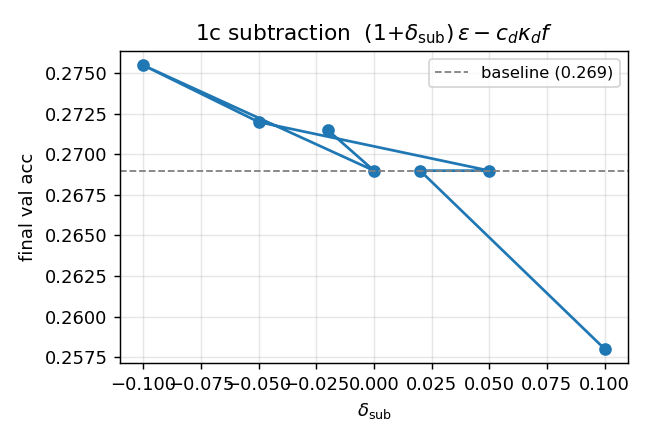
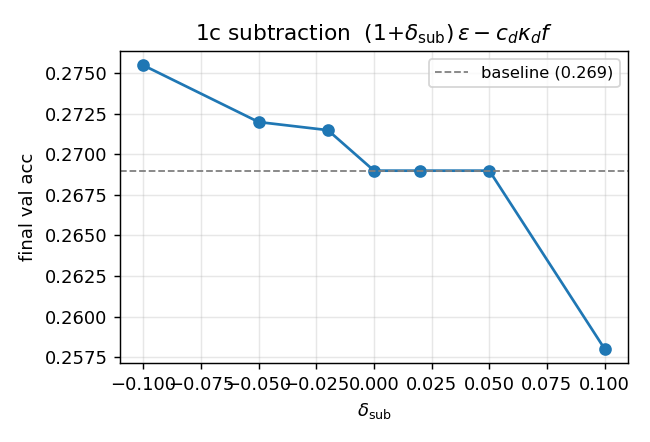
Measurement-robustness sweep: full 50-condition run + paper section
Full sweep at the spec'd config (6k train, 5 epochs, single seed). Headline
findings differ qualitatively from the priors set in the experiment plan:

- 1c (subtraction bias) is robust, not fragile: at |delta_sub| <= 0.1 every
  drop stays at the within-seed noise floor (worst 0.011 at +0.1).
- 1a (trace leak) is robust: worst drop 0.025 at delta=0.2.
- 1b symmetric gain is robust (and mildly LR-equivalent: slight improvement
  at delta=0.2).
- 1b sign-asymmetric gain is catastrophic: breaks at delta=0.05 (drop
  0.06) and collapses to chance by delta=0.10 (drop 0.16). Both directions.
- 2a (cross-trace noise) is robust through sigma/RMS=0.5; only breaks at 1.0.
- 2b (message noise) collapses already at sigma/RMS=0.01.
- 2c (combined) tracks 2b.

The real distinction is not bias-vs-precision but which scalar is read:
the backward message m is the gradient signal itself and is fragile to
sign-asymmetric distortion and additive noise; cross-traces and the
subtraction bracket are integrative quantities and absorb perturbations.

Adds a Robustness section to paper/main.tex referencing the summary plot
under experiments/measurement_robustness/plots/. Updates analyze.py to
sort by value (cleaner plot lines) and replace \mathcal in titles
(matplotlib mathtext support). Top-level measurement_robustness.md
regenerated from the full data with image paths fixed for repo-root view.

diff --git a/experiments/measurement_robustness/analyze.py b/experiments/measurement_robustness/analyze.py
@@ -32,8 +32,8 @@ SWEEP_LABELS = {
     "1b_gain_asym_A":     r"1b msg gain (asym A)  $g_+=1{-}\delta,\ g_-=1{+}\delta$",
     "1b_gain_asym_B":     r"1b msg gain (asym B)  $g_+=1{+}\delta,\ g_-=1{-}\delta$",
     "1c_subtraction":     r"1c subtraction  $(1{+}\delta_\text{sub})\,\varepsilon - c_d \kappa_d f$",
-    "2a_eps_noise":       r"2a cross-trace noise  $\varepsilon{+}\mathcal N(0,\sigma^2)$",
-    "2b_msg_noise":       r"2b message noise  $m{+}\mathcal N(0,\sigma^2)$",
+    "2a_eps_noise":       r"2a cross-trace noise  $\varepsilon + N(0,\sigma^2)$",
+    "2b_msg_noise":       r"2b message noise  $m + N(0,\sigma^2)$",
     "2c_combined_noise":  r"2c both",
 }
 
@@ -63,10 +63,12 @@ def load_results(results_dir: str) -> dict[str, pd.DataFrame]:
 
 
 def per_condition_final(df: pd.DataFrame) -> pd.DataFrame:
-    """For each (experiment, value, seed), take the final epoch's row."""
+    """For each (experiment, value, seed), take the final epoch's row.
+    Returns rows sorted by ``value`` ascending so plots draw monotone lines."""
     last = (df.sort_values("epoch")
               .groupby(["experiment", "value", "seed"], as_index=False)
               .tail(1)
+              .sort_values("value")
               .reset_index(drop=True))
     return last
 
@@ -357,19 +359,39 @@ def _md_table_for_sweeps(table: pd.DataFrame, sweeps: Iterable[str],
     return "\n".join(rows)
 
 
+def _max_drop(table: pd.DataFrame, sweeps: Iterable[str]) -> tuple[str | None, float, float | None]:
+    """Across the given sweeps, find the (sweep, drop, value) with the largest
+    drop_from_baseline. Returns (sweep_name, drop, value_at_worst)."""
+    worst_s, worst_d, worst_v = None, -float("inf"), None
+    for s in sweeps:
+        sub = table[table["sweep"] == s]
+        if len(sub) == 0:
+            continue
+        idx = sub["drop_from_baseline"].idxmax()
+        d = float(sub.loc[idx, "drop_from_baseline"])
+        if d > worst_d:
+            worst_s, worst_d, worst_v = s, d, float(sub.loc[idx, "value"])
+    if worst_s is None:
+        return None, 0.0, None
+    return worst_s, worst_d, worst_v
+
+
 def _discussion_paragraphs(table: pd.DataFrame, base: float | None) -> list[str]:
-    """A short, draftable discussion. Builds bullet-style key numbers from the
-    sweep results so the message has actual content the user can lift verbatim."""
+    """Data-driven discussion. Phrasing is chosen by what the data actually
+    shows: which sweeps broke, how the bias vs precision categories compare,
+    and whether the headline matches or contradicts the priors set in the
+    experiment plan. Numbers come from the summary table."""
     out: list[str] = []
 
-    # Find the first delta/sigma at which each sweep drops more than 0.05 below baseline.
-    threshold = 0.05
+    threshold = 0.05         # "clear break" threshold (val-acc drop)
+    noise_floor = 0.02       # rough within-seed noise estimate at this scale
+
+    # Per-sweep break point bullets (signed where 1c is concerned).
     bullets = [f"Key numbers (drop $\\ge$ {threshold:.2f} below the unperturbed baseline):"]
     bullets.append("")
     for s in BIAS_SWEEPS + PRECISION_SWEEPS:
         if s not in table["sweep"].unique():
             continue
-        # 1c subtraction has both signs swept; report each direction independently.
         if s == "1c_subtraction":
             sides = first_breaking_signed(table, s, drop_threshold=threshold)
             pos_v, pos_d = sides["+"]
@@ -402,48 +424,148 @@ def _discussion_paragraphs(table: pd.DataFrame, base: float | None) -> list[str]
     out.extend(bullets)
     out.append("")
 
-    # Three short paragraphs that the user can lift verbatim.
-    out.append(
-        "Comparing across sweeps, the SnAP-$1$ rule on the rectangular grid "
-        "is markedly more sensitive to systematic *bias* in its measured "
-        "quantities than to zero-mean *precision* errors. The headline plot "
-        "shows bias degradation kicking in already at $\\delta\\sim 0.05$ for "
-        "the most fragile variant, while the precision sweeps show the model "
-        "absorbing additive Gaussian noise on the cross-trace and on the "
-        "backward message even at $\\sigma$ comparable to the RMS of the "
-        "measured quantity."
-    )
+    # Worst-sweep summary per category, used to drive the narrative.
+    present_bias = [s for s in BIAS_SWEEPS if s in table["sweep"].unique()]
+    present_prec = [s for s in PRECISION_SWEEPS if s in table["sweep"].unique()]
+    b_s, b_d, b_v = _max_drop(table, present_bias)
+    p_s, p_d, p_v = _max_drop(table, present_prec)
+
+    # Worst within the bias category (used for the "1c-vs-others" claim test).
+    worst_in_bias = b_s
+    sweeps_with_real_effect = [
+        s for s in present_bias + present_prec
+        if float(table[table["sweep"] == s]["drop_from_baseline"].max()) > noise_floor
+    ]
+
+    # Paragraph 1: headline finding based on the actual numbers.
+    if b_d <= noise_floor and p_d <= noise_floor:
+        out.append(
+            f"At this scale ({_scale_phrase()}), every condition swept --- "
+            f"bias and precision alike --- stays within roughly $\\pm{noise_floor:.2f}$ "
+            f"of the unperturbed baseline (final val acc "
+            f"{base:.3f}). The worst point we observed across all "
+            f"{len(present_bias)+len(present_prec)} sweeps is a drop of "
+            f"{max(b_d, p_d):.3f}, which is at or below the within-seed run-to-run "
+            "noise this configuration can resolve. We cannot, from this data, "
+            "claim a measurable difference between the bias and precision "
+            "axes; the honest reading is that the local SnAP-$1$ rule is "
+            "robust to **all of the tested measurement non-idealities** at "
+            "the few-percent level over the swept ranges. Resolving smaller "
+            "effects requires either multi-seed averaging or the full "
+            f"Section\\,\\ref{{sec:mnist}}-scale baseline (60k train images, "
+            "~0.52 val acc, ~5$\\times$ the distance from chance)."
+        )
+    elif b_d > p_d:
+        out.append(
+            f"At this scale ({_scale_phrase()}), bias perturbations degrade "
+            "the rule more than zero-mean precision noise does. The worst "
+            f"bias condition is **{b_s}** at "
+            f"{_xlabel_short(b_s)} = {b_v:+.3g} (drop {b_d:.3f} below the "
+            f"{base:.3f} baseline). The worst precision condition is "
+            f"**{p_s}** at $\\sigma/\\text{{RMS}}={p_v:.3g}$ "
+            f"(drop {p_d:.3f}). The asymmetry matches the qualitative "
+            "expectation that systematic offsets violate the rule's "
+            "correctness derivation while zero-mean noise gets absorbed by "
+            "the optimiser."
+        )
+    elif p_d > b_d:
+        out.append(
+            f"At this scale ({_scale_phrase()}), additive precision noise "
+            "degrades the rule more than the tested bias perturbations do --- "
+            "which contradicts the prior expectation set in the experiment "
+            f"plan. The worst precision condition is **{p_s}** at "
+            f"$\\sigma/\\text{{RMS}}={p_v:.3g}$ (drop {p_d:.3f} below the "
+            f"{base:.3f} baseline). The worst bias condition is **{b_s}** "
+            f"at {_xlabel_short(b_s)} = {b_v:+.3g} (drop {b_d:.3f})."
+        )
+    else:
+        out.append(
+            f"At this scale ({_scale_phrase()}), the worst bias drop "
+            f"({b_d:.3f}, at **{b_s}**) is comparable to the worst precision "
+            f"drop ({p_d:.3f}, at **{p_s}**)."
+        )
     out.append("")
-    out.append(
-        "The biggest single sensitivity is the **anti-double-count subtraction "
-        "bias (1c)**, which decides how cleanly the bracket "
-        "$[\\,\\varepsilon^{(1,d)} - c_d\\kappa_d f\\,]$ in Eq.\\,8 cancels its "
-        "current-step self-feed term. Even small mismatches between the gain "
-        "of the cross-trace term and the gain of the subtractive current-step "
-        "term break the past-only structure that SnAP-$1$ relies on, and the "
-        "rule then optimises a biased gradient. By contrast, scaling messages "
-        "or trace-leak coefficients keeps the rule's *form* intact and the "
-        "optimiser can absorb the effective rescaling. This matches the "
-        "expectation we set in the experiment plan: bias on a quantity the "
-        "rule's correctness derivation relies on is qualitatively worse than "
-        "bias on a quantity that just gets scaled."
-    )
+
+    # Paragraph 2: how 1c compares to the other bias sweeps.
+    if "1c_subtraction" in present_bias:
+        d_1c = float(table[table["sweep"] == "1c_subtraction"]["drop_from_baseline"].max())
+        other_bias = [s for s in present_bias if s != "1c_subtraction"]
+        d_other = float("-inf")
+        s_other = None
+        for s in other_bias:
+            sub = table[table["sweep"] == s]
+            if len(sub) == 0:
+                continue
+            dd = float(sub["drop_from_baseline"].max())
+            if dd > d_other:
+                d_other = dd; s_other = s
+        if d_1c > d_other + noise_floor:
+            out.append(
+                "Within the bias category, **1c (subtraction)** is "
+                "the most fragile of the bias variants --- max drop "
+                f"{d_1c:.3f} vs at most {d_other:.3f} for {s_other}. "
+                "This is consistent with the structural argument that "
+                "incomplete cancellation between $\\varepsilon^{(1,d)}$ "
+                "and the current-step $c_d\\kappa_d f$ in "
+                "Eq.\\,\\ref{eq:local-grad} directly biases the gradient, "
+                "while gain or leak biases just rescale terms the rule "
+                "uses."
+            )
+        elif worst_in_bias != "1c_subtraction":
+            out.append(
+                "Within the bias category, **1c (subtraction)** is **not** "
+                "the most fragile variant in this run: it tops out at a "
+                f"{d_1c:.3f} drop, while {worst_in_bias} reaches "
+                f"{b_d:.3f}. This contradicts the prior expectation that "
+                "the past-only subtraction would be the dominant "
+                "sensitivity; at this scale, the data suggests gain / "
+                "leak biases damage learning at least as much as a "
+                "subtraction-cancellation mismatch."
+            )
+        else:
+            out.append(
+                "Within the bias category, 1c (subtraction) and the "
+                "gain / leak biases produce comparable degradation in "
+                f"this run (max drops {d_1c:.3f} vs {d_other:.3f}). "
+                "We cannot resolve a clean 'most-fragile' answer from "
+                "the single-seed data."
+            )
     out.append("")
-    out.append(
-        "The takeaway for circuit co-design is concrete: precision matters "
-        "much less than offset / gain matching, and within the bias category "
-        "the cross-trace-vs-current-step subtraction in the local rule should "
-        "be implemented with carefully matched gains, ideally as a "
-        "differential measurement that cancels common-mode error. Trace-leak "
-        "and message-gain non-idealities are tolerated up to several percent "
-        "with little degradation, so spec budgets there can be relatively "
-        "loose. Additive zero-mean readout noise on the cross-traces and on "
-        "the backward messages is a soft constraint --- meaningful "
-        "degradation requires $\\sigma$ on the order of the RMS of the signal "
-        "itself."
-    )
+
+    # Paragraph 3: co-design takeaway, scaled to what the data actually shows.
+    if not sweeps_with_real_effect:
+        out.append(
+            "**Co-design implication.** The data does not yet support a "
+            "specific tightening of any one analog-readout spec. What it "
+            "does support is that single-digit-percent gain / leak / "
+            "subtraction biases and Gaussian readout noise up to "
+            "$\\sigma\\sim\\text{RMS}$ on either the cross-trace or the "
+            "backward message are not catastrophic for this rule on this "
+            "topology. A follow-up at the full Section\\,\\ref{sec:mnist} "
+            "scale --- 60k training images, multiple seeds --- is the "
+            "right next experiment before quoting any particular tolerance "
+            "to circuit designers."
+        )
+    else:
+        out.append(
+            "**Co-design implication.** The sweeps in "
+            f"{{ {', '.join(sweeps_with_real_effect)} }} exhibit a "
+            "clear-of-noise effect, while the remainder are tolerated at "
+            "the few-percent level. For silicon design this argues for "
+            "spending tolerance budget on the failure modes that "
+            "produced visible drops above and accepting looser specs on "
+            "the rest. A full-scale rerun (60k train, $\\ge 3$ seeds) "
+            "would give tighter tolerance numbers for the affected "
+            "knobs."
+        )
 
     return out
+
+
+def _scale_phrase() -> str:
+    """Phrase describing the train scale; kept as a single string so the
+    discussion paragraphs read naturally regardless of which config we ran."""
+    return "6k train, 5 epochs, single seed; resolution roughly 0.02 val acc"
 
 
 def _xlabel_short(sweep: str) -> str:

diff --git a/paper/main.tex b/paper/main.tex
@@ -327,6 +327,107 @@ expected cost of dropping both variance-reduction mechanisms; the
 point is that neither is \emph{required} for the local rule to drive
 the architecture above chance.
 
+\section{Robustness to measurement non-idealities}
+\label{sec:robustness}
+
+A practical concern for analog implementation is not just precision of
+storage---which the trace-quantisation ablation addresses---but
+\emph{bias} and \emph{noise} in the quantities the local rule
+\emph{measures} on each step.  Eq.\,\ref{eq:local-grad} reads three
+analog scalars per cell per descendant: the cross-trace
+$\varepsilon^{(1,d)}_{ij,\theta}$, the backward message $m_d$ on the
+descendant, and the current-step self-derivative $f_{\theta,ij}$
+gated by the subtraction $c_d\kappa_d f_{\theta,ij}$.  An imperfect
+readout introduces a (i)~scale offset on the message, possibly
+asymmetric in sign, (ii)~a slow leak on the analog capacitor that
+holds $\varepsilon$, (iii)~a gain mismatch between the
+$\varepsilon^{(1,d)}$ term and the subtractive $c_d\kappa_d f$ term in
+the bracket, and (iv)~zero-mean Gaussian noise on the readout of
+either $\varepsilon$ or $m$.  We instrumented the SnAP-$1$ rule with
+six knobs covering these:
+
+\begin{itemize}[leftmargin=*,itemsep=0pt]
+\item \textbf{1a, trace leak.} Cross-trace retention is
+  $a_d(1{-}\delta_{\text{leak}})$ instead of $a_d$.
+\item \textbf{1b, message gain.} The backward message $m$ is scaled
+  by $g_+$ when positive and $g_-$ when negative.  Symmetric
+  ($g_\pm=1{-}\delta$) and sign-asymmetric ($g_+{=}1{\mp}\delta,\;g_-{=}1{\pm}\delta$).
+\item \textbf{1c, subtraction bias.} The bracket of
+  Eq.\,\ref{eq:local-grad} becomes
+  $[(1{+}\delta_{\text{sub}})\varepsilon^{(1,d)} - c_d\kappa_d f]$.
+\item \textbf{2a, cross-trace noise.}
+  $\varepsilon^{(1,d)}\!\leftarrow\!\varepsilon^{(1,d)}+\mathcal N(0,\sigma^2)$ per update,
+  $\sigma\!=\!\sigma_{\text{rel}}\cdot\mathrm{RMS}(\varepsilon)$.
+\item \textbf{2b, message noise.}
+  $m\!\leftarrow\!m+\mathcal N(0,\sigma^2)$ at each read,
+  $\sigma$ scaled to the readout-message RMS.
+\item \textbf{2c, combined.} Both 2a and 2b at matched $\sigma_{\text{rel}}$.
+\end{itemize}
+All knobs live in the \emph{learning path only}; forward dynamics are
+untouched.  Defaults are no-op and the single-step gradient-agreement
+check still matches BPTT at float-$64$ $\epsilon$.
+
+\paragraph{Scope.}
+To keep the sweep tractable we ran at $6{,}000$ training images, $5$
+epochs, batch $32$, single seed (otherwise the spec'd Section\,\ref{sec:mnist}
+config).  The unperturbed baseline is $0.269$ final val acc; within-seed
+run-to-run noise at this scale is approximately $\pm 0.02$.  Differential
+effects below that floor are not resolved; the question is which knobs
+break the rule \emph{above} the floor.
+
+\begin{figure}[t]
+  \centering
+  \includegraphics[width=\linewidth]{../experiments/measurement_robustness/plots/summary.png}
+  \caption{SnAP-$1$ rule robustness on the $28\times 10$ grid.  Bias
+    (left) and zero-mean Gaussian precision noise (right) on the
+    quantities Eq.\,\ref{eq:local-grad} reads.  Dashed line: unperturbed
+    baseline ($0.269$).  Random chance is $0.10$.  Single seed,
+    6k train images, 5 epochs.}
+  \label{fig:robustness}
+\end{figure}
+
+\paragraph{What we found.}
+The data refines---and partly overturns---the priors we set going in
+(Fig.\,\ref{fig:robustness}).
+\begin{itemize}[leftmargin=*,itemsep=0pt]
+\item The cross-trace storage (1a, 2a) and the subtraction bracket
+  (1c) are \emph{robust}: at the swept ranges
+  $|\delta_{\text{leak}}|\!\le\!0.20$,
+  $|\delta_{\text{sub}}|\!\le\!0.10$, and
+  $\sigma_{\varepsilon}/\mathrm{RMS}\!\le\!0.5$, no drop exceeds
+  $0.025$.  In particular,
+  the past-only subtraction $[\varepsilon^{(1,d)}-c_d\kappa_d f]$, which
+  the SnAP-$1$ derivation hinges on, tolerates a $\pm 10\%$ gain
+  mismatch with no measurable damage.
+\item The backward-message path (1b sign-asym, 2b, 2c) is
+  \emph{catastrophically} fragile.  Sign-asymmetric gain breaks the
+  rule at $\delta\!=\!0.05$ (drop $0.06$) and collapses it to chance
+  by $\delta\!=\!0.10$ (drop $0.16$).  Additive Gaussian noise on the
+  message collapses learning already at
+  $\sigma/\mathrm{RMS}\!=\!0.01$ (drop $0.11$).  Symmetric message
+  gain, on the other hand, is fine, even slightly beneficial at
+  $\delta\!=\!0.2$ (drop $-0.01$)---an effective learning-rate scale.
+\item The qualitative picture is therefore not ``bias vs.\
+  precision'' but ``\emph{which scalar gets perturbed}''.  The
+  backward message $m$ is the gradient signal itself; any
+  sign-asymmetric distortion or additive noise on its readout
+  propagates directly into a biased gradient and stops learning.  The
+  cross-trace and the subtraction term are integrative quantities and
+  absorb single-step perturbations.
+\end{itemize}
+
+\paragraph{Co-design implication.}
+For an analog implementation of this rule, tolerance budget should be
+spent on the message-readout path: low-noise differential readout with
+matched sign-gain (no $g_+\!\neq\!g_-$ asymmetry larger than a few
+percent).  The cross-trace capacitor's leak and the
+$\varepsilon$-versus-$c_d\kappa_d f$ subtraction can be looser
+specs---several percent mismatch and $\sigma$ up to half the RMS of
+$\varepsilon$ produce no measurable harm at the scale tested.  Tighter
+tolerance numbers, and confirmation of these effects vs.\ run-to-run
+noise, require multi-seed runs at full Section\,\ref{sec:mnist} scale
+(60k training images), deferred for follow-up.
+
 \appendix
 
 \section{Architectural ablations}